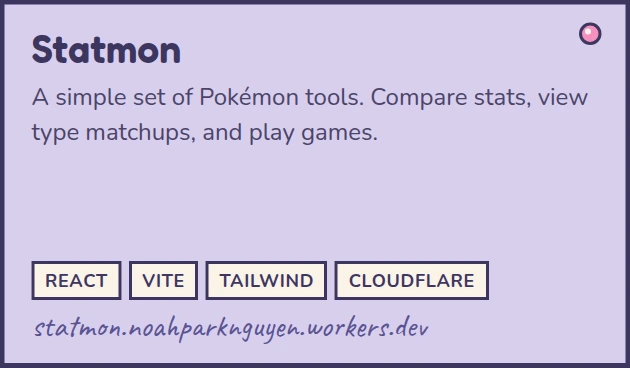
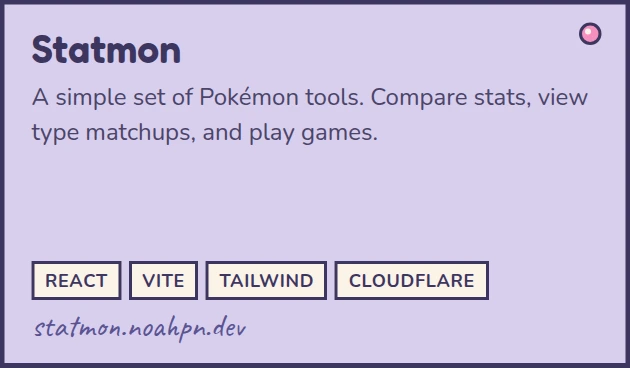
Follow Statmon to its new domain
The card is generated, so the note on it re-renders rather than being
edited: statmon.noahparknguyen.workers.dev is gone and the site serves from
statmon.noahpn.dev.

Changed region(s): [[0.3016, 0.8668, 0.6937, 0.9266]]

diff --git a/README.md b/README.md
@@ -16,7 +16,7 @@
 
 <img src="assets/label-projects.webp" width="115" alt="My Projects">
 
-<a href="https://github.com/noahparknguyen/statmon"><img src="assets/card-statmon.webp" width="272" alt="Statmon. A simple set of Pokémon tools. Compare stats, view type matchups, and play games. Built with React, Vite, Tailwind and Cloudflare. Live at statmon.noahparknguyen.workers.dev"></a>
+<a href="https://github.com/noahparknguyen/statmon"><img src="assets/card-statmon.webp" width="272" alt="Statmon. A simple set of Pokémon tools. Compare stats, view type matchups, and play games. Built with React, Vite, Tailwind and Cloudflare. Live at statmon.noahpn.dev"></a>
 <a href="https://github.com/noahparknguyen/hubspot-recommendation-tool"><img src="assets/card-hubspot.webp" width="272" alt="HubSpot Tool. A discovery tool that lets you see what your website is built with, and recommends HubSpot products that could replace them. Built with Node, React, Docker and Jest. Live at hubspot-recommendation-tool.onrender.com"></a>
 <a href="https://github.com/noahparknguyen/portfolio"><img src="assets/card-portfolio.webp" width="272" alt="Portfolio. My personal website, a bulletin board where I show off both my professional work and hobbies. Built with React, Vite, Tailwind and Cloudflare. Live at noahpn.dev"></a>
 
